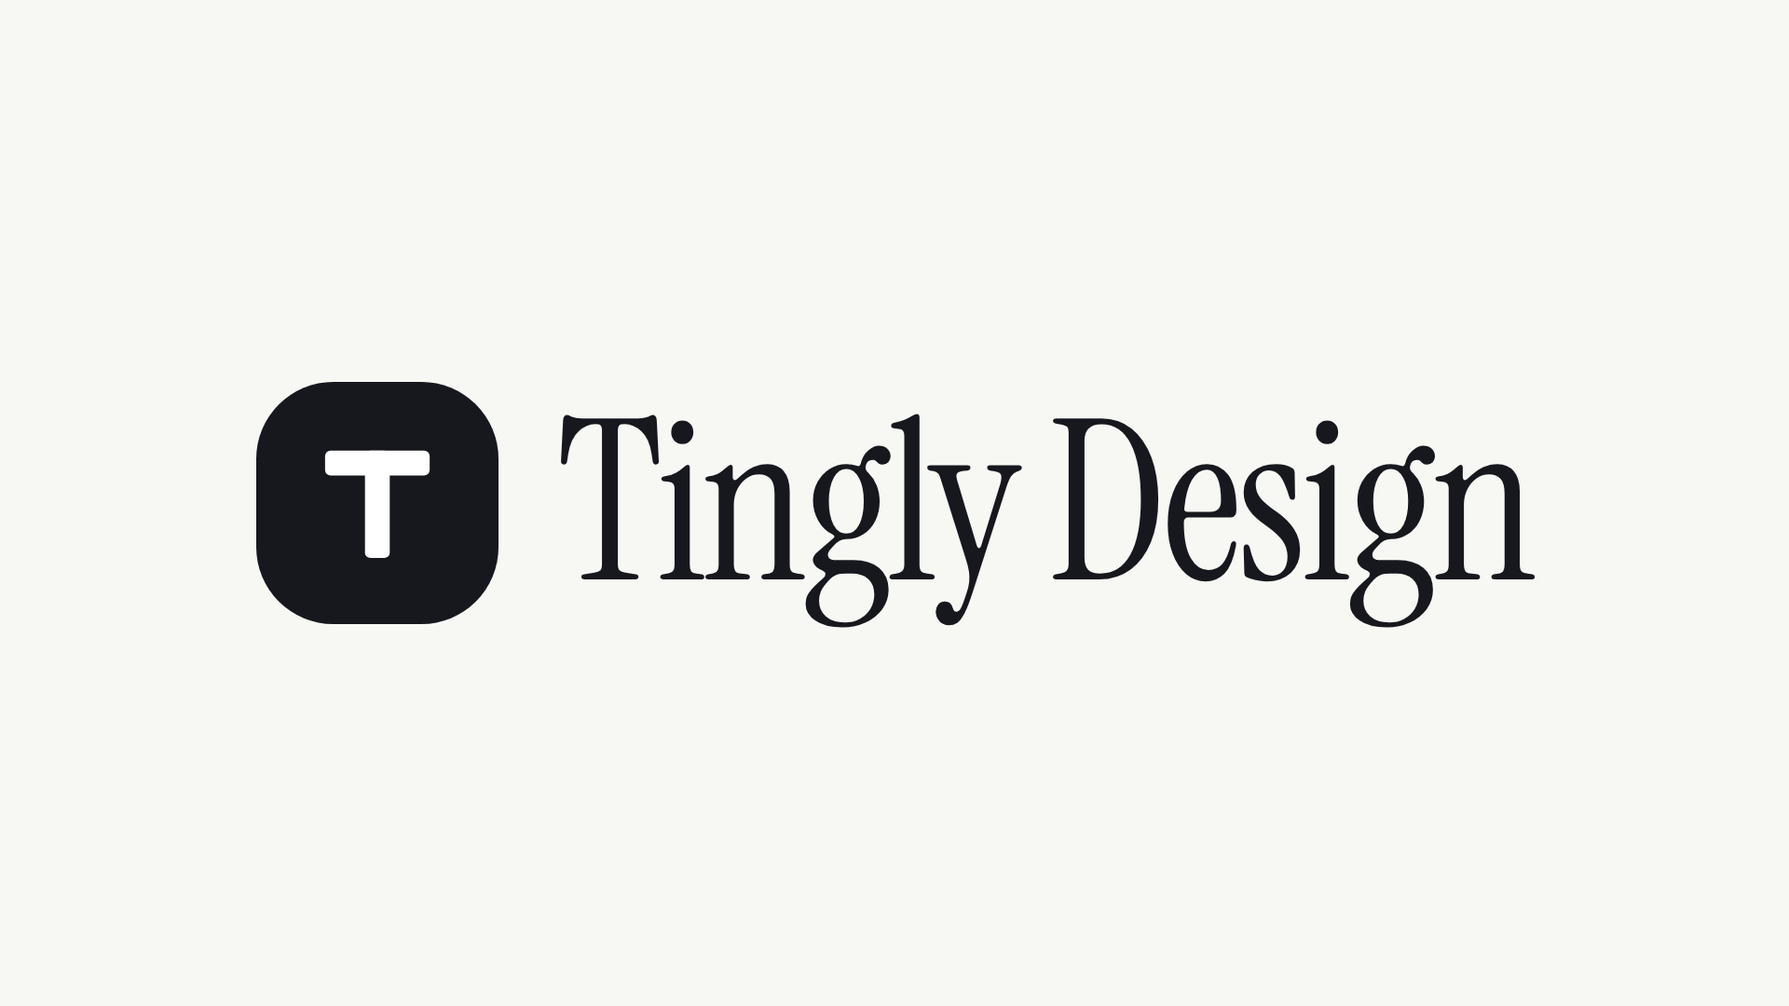
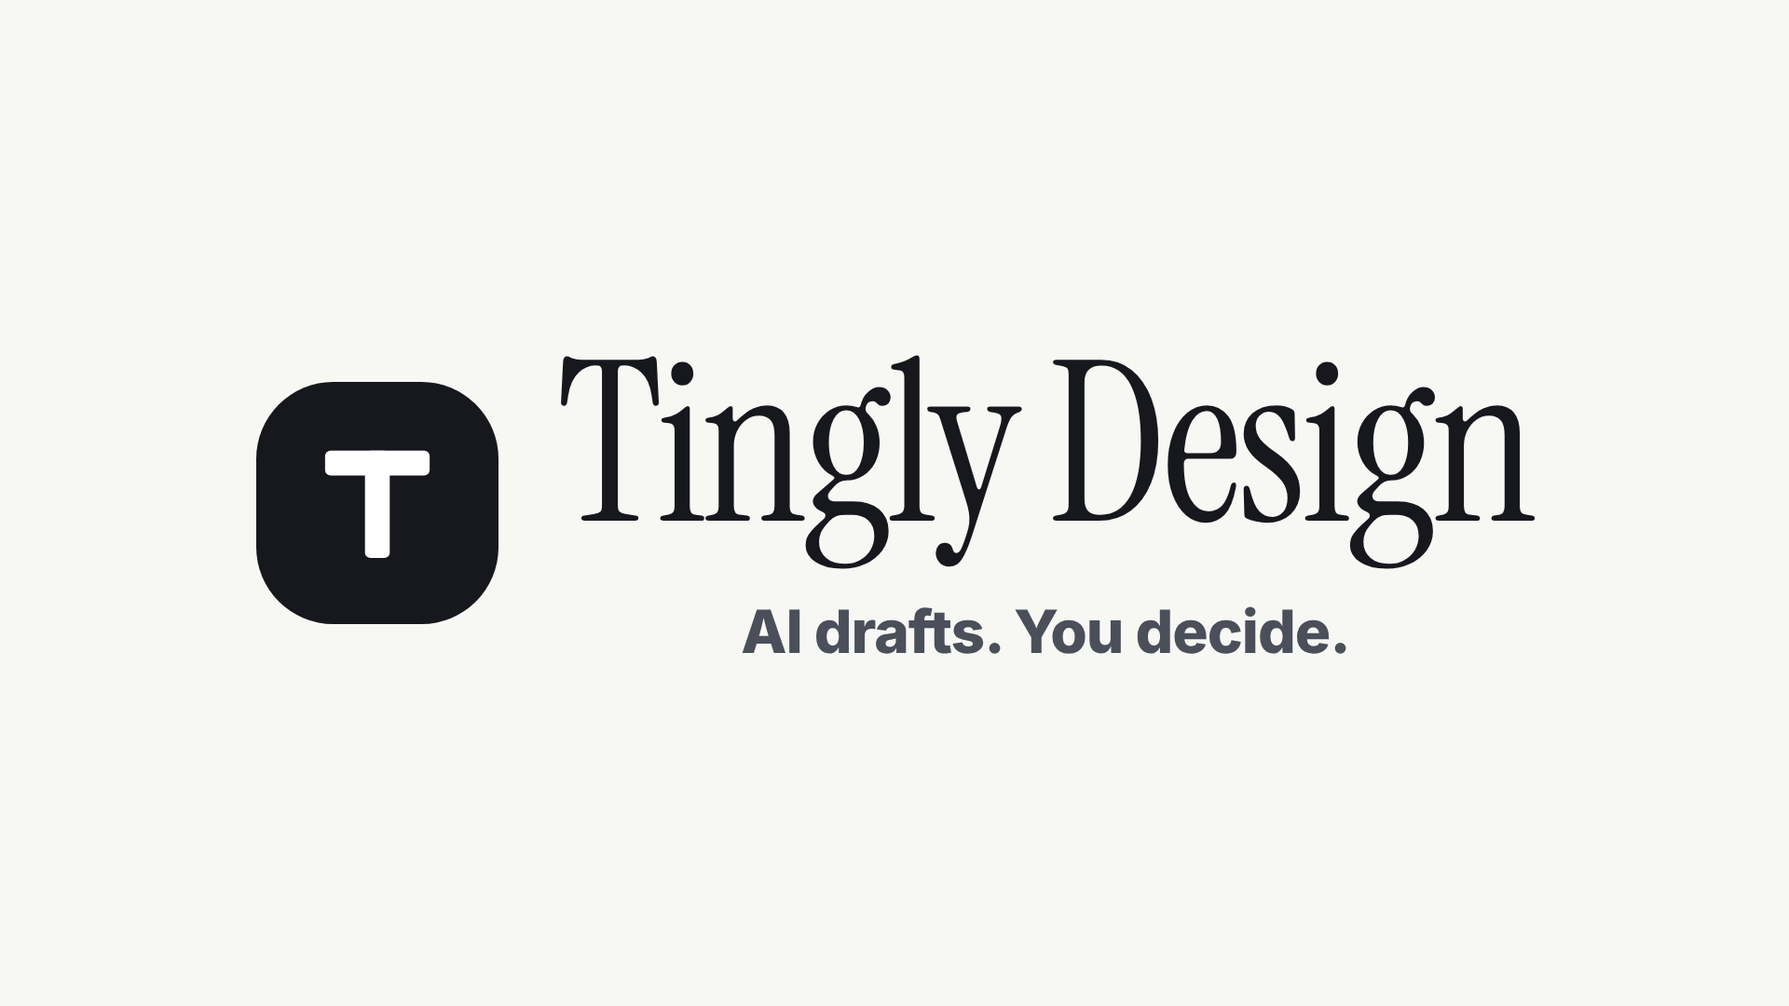
feat(motion): retell the design-motion sample: AI drafts, you decide (#353)
## Summary
The README led with a mechanism ("people and AI edit the same files")
and `projects/design-motion` — the README hero and promo source —
explained how it works instead of showing what you get. This picks the
launch-promo tagline 「AI 起稿，你来定稿 / AI drafts. You decide.」 with the
subtitle 「开源的 AI 设计工作室 / The open-source AI design studio」 and retells
the sample around it, so README, homepage and cover all lead with one
line.

## Key Changes

- **Launch tagline (#124)**: both READMEs and the homepage
kicker/headline lead with "AI drafts. You decide." over "The open-source
AI design studio".
- **Sample story (#126)**: scenes now show one sentence → AI draft → you
finish it (retype the headline) → "Want it darker? Ask." → everything
you can make → slogan; the ask is "Make it darker and add pricing" and
the AI's answer is a dark take (ink background, amber accent) with the
pricing section.
- **Cover assets**: the poster cover, cover and outro scenes carry the
slogan, readable at thumbnail size; `cover.png`, `hero.gif`, `kinds.gif`
re-rendered from the sample with the app's own exporter
(`scripts/readme-assets.sh`).
- **No behavior change**: scene copy, colours and notes only —
`e2e/coverage.json` and `.design/project-kinds.md` needed no changes,
and a copy-only change needs no `.design/` note (CLAUDE.md "Keep these
in sync").

## Screenshots

The re-rendered README assets (also the hero of the README itself):

![Cover: the name and the
[…]

Changed region(s): [[0.3125, 0.3361, 0.875, 0.6722]]

diff --git a/projects/tingly-design-motion/scenes/more.html b/projects/tingly-design-motion/scenes/more.html
@@ -1,7 +1,7 @@
 <section id="more" data-duration="7.5s" style="background:#f7f7f4;color:#16181d;font-family:'Inter', Arial, sans-serif;padding:48px 96px;display:flex;flex-direction:column;gap:24px" data-tall="padding:72px 56px;gap:28px" data-s390x844="padding:36px 20px 20px 20px;gap:14px" data-upright="padding:64px 54px;gap:13.5px">
 <div style="display:flex;flex-direction:column;gap:8px;height:120px" data-tall="height:190px" data-s390x844="height:96px;gap:6px" data-upright="gap:7px;height:170px">
-<h2 data-in="rise 600ms @0.2s" style="font-size:60px;font-weight:900;line-height:1.05;letter-spacing:-2px" data-tall="font-size:62px" data-s390x844="font-size:30px;letter-spacing:-1px" data-upright="font-size:42px;letter-spacing:-1.4px">Or try another style.</h2>
-<p data-in="fade 500ms @0.6s" style="font-size:30px;font-weight:500;color:#4a4f5a" data-tall="font-size:30px" data-s390x844="font-size:15px" data-upright="font-size:21px">Same design, new look. One sentence restyles it in place.</p>
+<h2 data-in="rise 600ms @0.2s" style="font-size:60px;font-weight:900;line-height:1.05;letter-spacing:-2px" data-tall="font-size:62px" data-s390x844="font-size:30px;letter-spacing:-1px" data-upright="font-size:42px;letter-spacing:-1.4px">Want it darker? Ask.</h2>
+<p data-in="fade 500ms @0.6s" style="font-size:30px;font-weight:500;color:#4a4f5a" data-tall="font-size:30px" data-s390x844="font-size:15px" data-upright="font-size:21px">The AI reworks the same design.</p>
 </div>
 <div id="window" style="display:flex;flex-direction:column;flex:1;background:#ffffff;border:2px solid #e5e5e0;border-radius:28px;overflow:hidden" data-s390x844="border-radius:18px;padding:10px;border-radius:12px" data-upright="border:2px solid #e5e5e0;border-radius:20px">
 <div style="display:flex;flex-direction:row;align-items:center;gap:14px;height:60px;padding:0px 24px;border-bottom:2px solid #e5e5e0" data-s390x844="height:38px;padding:0px 14px;gap:8px" data-upright="height:52px;padding:0px 20px;gap:11px;border-bottom:2px solid #e5e5e0">
@@ -56,7 +56,7 @@
 </div>
 </div>
 <div style="position:absolute;left:50%;bottom:40px;width:860px;transform:translateX(-50%);display:flex;flex-direction:row;align-items:center;gap:14px;padding:12px 12px 12px 26px;background:#ffffff;border:2px solid #2563eb;border-radius:20px" data-in="rise 400ms @0.3s" data-tall="width:900px;bottom:140px" data-s390x844="width:340px;bottom:14px;padding:6px 6px 6px 14px;border-radius:14px" data-upright="bottom:32px;width:700px;padding:10px 10px 10px 22px;border:2px solid #2563eb;border-radius:16px">
-<p style="flex:1;font-size:26px;font-weight:600;color:#16181d" data-s390x844="font-size:12px" data-upright="font-size:19px"><span data-in="type 1.6s @0.8s">Try a dark, editorial style</span></p>
+<p style="flex:1;font-size:26px;font-weight:600;color:#16181d" data-s390x844="font-size:12px" data-upright="font-size:19px"><span data-in="type 1.6s @0.8s">Make it darker and more editorial</span></p>
 <p id="send" data-keys="scale: 1@2.6s 0.85@2.70s 1@2.85s" style="width:52px;height:52px;background:#2563eb;border-radius:14px;color:#ffffff;font-size:28px;font-weight:900;text-align:center;line-height:52px" data-s390x844="width:30px;height:30px;font-size:16px;line-height:30px;border-radius:9px" data-upright="width:44px;height:44px;border-radius:11px;font-size:24px;line-height:44px">↑</p>
 </div></div>
 </div>

diff --git a/projects/tingly-design-motion/scenes/edit.html b/projects/tingly-design-motion/scenes/edit.html
@@ -1,7 +1,7 @@
 <section id="edit" data-duration="6.8s" style="background:#f7f7f4;color:#16181d;font-family:'Inter', Arial, sans-serif;padding:48px 96px;display:flex;flex-direction:column;gap:24px" data-tall="padding:72px 56px;gap:28px" data-s390x844="padding:36px 20px 20px 20px;gap:14px" data-upright="padding:64px 54px;gap:13.5px">
 <div style="display:flex;flex-direction:column;gap:8px;height:120px" data-tall="height:190px" data-s390x844="height:96px;gap:6px" data-upright="gap:7px;height:170px">
-<h2 data-in="rise 600ms @0.2s" style="font-size:60px;font-weight:900;line-height:1.05;letter-spacing:-2px" data-tall="font-size:62px" data-s390x844="font-size:30px;letter-spacing:-1px" data-upright="font-size:42px;letter-spacing:-1.4px">Click any text. Type.</h2>
-<p data-in="fade 500ms @0.6s" style="font-size:30px;font-weight:500;color:#4a4f5a" data-tall="font-size:30px" data-s390x844="font-size:15px" data-upright="font-size:21px">Every part of the design is yours to change by hand.</p>
+<h2 data-in="rise 600ms @0.2s" style="font-size:60px;font-weight:900;line-height:1.05;letter-spacing:-2px" data-tall="font-size:62px" data-s390x844="font-size:30px;letter-spacing:-1px" data-upright="font-size:42px;letter-spacing:-1.4px">Then you finish it.</h2>
+<p data-in="fade 500ms @0.6s" style="font-size:30px;font-weight:500;color:#4a4f5a" data-tall="font-size:30px" data-s390x844="font-size:15px" data-upright="font-size:21px">Retype any line, right on the page.</p>
 </div>
 <div id="window" style="display:flex;flex-direction:column;flex:1;background:#ffffff;border:2px solid #e5e5e0;border-radius:28px;overflow:hidden" data-s390x844="border-radius:18px;padding:10px;border-radius:12px" data-upright="border:2px solid #e5e5e0;border-radius:20px">
 <div style="display:flex;flex-direction:row;align-items:center;gap:14px;height:60px;padding:0px 24px;border-bottom:2px solid #e5e5e0" data-s390x844="height:38px;padding:0px 14px;gap:8px" data-upright="height:52px;padding:0px 20px;gap:11px;border-bottom:2px solid #e5e5e0">
@@ -39,4 +39,4 @@
 </div>
 <svg width="48" height="48" viewBox="0 0 24 24" style="position:absolute;left:1702px data-only="wide tall";top:830px;width:48px;height:48px" data-in="fade 300ms @0.2s" data-out="fade 300ms @2.4s" data-keys="x: 0@0s 0@0.5s -938@1.4s ease-in-out; y: 0@0s 0@0.5s -347@1.4s ease-in-out" data-tall="left:902px;top:1646px" data-keys-tall="x: 0@0s 0@0.5s -368@1.4s ease-in-out; y: 0@0s 0@0.5s -687@1.4s ease-in-out" data-only="wide tall"><path d="M3 2l7 19 2.6-7.4L20 11z" fill="#16181d" stroke="#ffffff" stroke-width="1.6" stroke-linejoin="round"/></svg>
 <div data-in="pop 250ms @1.5s" data-out="fade 400ms @1.85s" data-only="wide tall" style="position:absolute;left:730px;top:447px;width:80px;height:80px;border:6px solid #2563eb;border-radius:999px" data-tall="left:500px;top:923px" data-upright="left:410.63px;top:596px;width:45px;height:106.67px;border:3.38px solid #2563eb;border-radius:561.94px"></div>
-<aside>dive into text edit</aside></section>
+<aside>you finish the draft: retype the headline by hand</aside></section>

diff --git a/projects/tingly-design-motion/scenes/cover.html b/projects/tingly-design-motion/scenes/cover.html
@@ -5,7 +5,7 @@
 <div data-in="pop 600ms @0.61s" data-keys="y: 0@0s -18@4.6s ease-in-out" style="position:absolute;left:1430px;top:680px;display:flex;flex-direction:column;gap:14px;width:380px;height:250px;padding:24px;background:#ffffff;border:2px solid #e5e5e0;border-radius:22px;transform:rotate(-4deg)" data-tall="left:640px;top:1400px" data-only="wide tall" data-upright="left:700px;top:980px;width:300px;height:200px;padding:20px;border:2px solid #e5e5e0;border-radius:18px"><p style="height:12px;width:180px;background:#16181d;border-radius:6px" data-upright="height:12px;width:150px;border-radius:5px"></p><p style="height:12px;width:280px;background:#d6d8dd;border-radius:6px" data-upright="height:12px;width:230px;border-radius:5px"></p><p style="height:12px;width:250px;background:#d6d8dd;border-radius:6px" data-upright="height:12px;width:210px;border-radius:5px"></p><p style="height:12px;width:290px;background:#d6d8dd;border-radius:6px" data-upright="height:12px;width:240px;border-radius:5px"></p><p style="height:12px;width:160px;background:#d6d8dd;border-radius:6px" data-upright="height:12px;width:130px;border-radius:5px"></p><p style="height:12px;width:240px;background:#d6d8dd;border-radius:6px" data-upright="height:12px;width:200px;border-radius:5px"></p></div>
 <svg data-in="drop 500ms @0.6s" aria-label="Tingly mark" width="132" height="132" viewBox="0 0 88 88" style="width:132px;height:132px" data-s390x844="width:84px;height:84px" data-upright="width:100px;height:100px"><rect width="88" height="88" rx="28" fill="#16181d"/><rect x="25" y="25" width="38" height="9" rx="2" fill="#ffffff"/><rect x="39.5" y="25" width="9" height="39" rx="2" fill="#ffffff"/></svg>
 <h1 data-in="wipe 700ms @0.9s ease-in-out" style="font-family:'Instrument Serif', Georgia, serif;font-size:200px;font-weight:400;line-height:1;letter-spacing:-4px;text-align:center" data-tall="font-size:150px" data-s390x844="font-size:60px;letter-spacing:-2px" data-upright="font-size:120px;letter-spacing:-2.5px">Tingly Design</h1>
-<p data-in="rise 500ms @1.5s" style="font-size:46px;font-weight:700;text-align:center;color:#4a4f5a" data-tall="font-size:40px;width:900px" data-s390x844="font-size:18px;width:320px" data-upright="font-size:30px;width:760px">Design with AI. Change anything by hand.</p>
+<p data-in="rise 500ms @1.5s" style="font-size:54px;font-weight:700;text-align:center;color:#4a4f5a" data-tall="font-size:40px;width:900px" data-s390x844="font-size:18px;width:320px" data-upright="font-size:30px;width:760px">AI drafts. You decide.</p>
 <p data-in="pop 400ms @1.9s" style="padding:12px 26px;background:#e9effd;color:#2563eb;font-size:28px;font-weight:800;letter-spacing:4px;border-radius:999px" data-s390x844="padding:8px 18px;font-size:13px;letter-spacing:3px" data-upright="padding:12px 24px;font-size:20px;letter-spacing:3px;border-radius:999px">START DESIGNING</p>
-<aside>Cover: the product name, its promise, and four things it makes.</aside>
+<aside>Cover: the name, the slogan, and four things it makes.</aside>
 </section>

diff --git a/projects/tingly-design-motion/scenes/all.html b/projects/tingly-design-motion/scenes/all.html
@@ -1,5 +1,5 @@
 <section id="all" data-duration="4s" data-transition="fade 500ms" style="background:#f7f7f4;color:#16181d;font-family:'Inter', Arial, sans-serif;padding:128px;display:flex;flex-direction:column;justify-content:center;gap:48px" data-tall="padding:96px 56px" data-s390x844="padding:48px 24px;gap:28px" data-upright="padding:110px 80px;gap:48px">
-<h2 data-in="rise 600ms @0.1s" style="font-size:96px;font-weight:900;line-height:1.05;letter-spacing:-3px" data-tall="font-size:88px" data-s390x844="font-size:38px;letter-spacing:-1px" data-upright="font-size:78px;letter-spacing:-2.5px;line-height:1.05">Six kinds of project.<br>One workspace.</h2>
+<h2 data-in="rise 600ms @0.1s" style="font-size:96px;font-weight:900;line-height:1.05;letter-spacing:-3px" data-tall="font-size:88px" data-s390x844="font-size:38px;letter-spacing:-1px" data-upright="font-size:78px;letter-spacing:-2.5px;line-height:1.05">Everything you'll make.<br>One place.</h2>
 <div style="display:flex;flex-direction:row;flex-wrap:wrap;gap:20px;width:1500px" data-tall="width:968px" data-s390x844="width:342px;gap:10px" data-upright="gap:16px;width:920px">
 <p data-in="pop 400ms @0.40s" style="width:430px;box-sizing:border-box;display:flex;align-items:center;justify-content:center;text-align:center;padding:18px 34px;background:#e9effd;border:2px solid #e5e5e0;border-radius:999px;font-size:44px;font-weight:800" data-s390x844="width:166px;padding:12px 8px;font-size:17px" data-upright="width:288px;padding:20px 30px;border:2px solid #e5e5e0;border-radius:999px;font-size:34px">Canvas</p>
 <p data-in="pop 400ms @0.58s" style="width:430px;box-sizing:border-box;display:flex;align-items:center;justify-content:center;text-align:center;padding:18px 34px;background:#ffffff;border:2px solid #e5e5e0;border-radius:999px;font-size:44px;font-weight:800" data-s390x844="width:166px;padding:12px 8px;font-size:17px" data-upright="width:288px;padding:20px 30px;border:2px solid #e5e5e0;border-radius:999px;font-size:34px">Slides</p>
@@ -8,5 +8,5 @@
 <p data-in="pop 400ms @1.12s" style="width:430px;box-sizing:border-box;display:flex;align-items:center;justify-content:center;text-align:center;padding:18px 34px;background:#e9effd;border:2px solid #e5e5e0;border-radius:999px;font-size:44px;font-weight:800" data-s390x844="width:166px;padding:12px 8px;font-size:17px" data-upright="width:288px;padding:20px 30px;border:2px solid #e5e5e0;border-radius:999px;font-size:34px">Docs</p>
 <p data-in="pop 400ms @1.30s" style="width:430px;box-sizing:border-box;display:flex;align-items:center;justify-content:center;text-align:center;padding:18px 34px;background:#ffffff;border:2px solid #e5e5e0;border-radius:999px;font-size:44px;font-weight:800" data-s390x844="width:166px;padding:12px 8px;font-size:17px" data-upright="width:288px;padding:20px 30px;border:2px solid #e5e5e0;border-radius:999px;font-size:34px">Motion</p>
 </div>
-<aside>Recap of the six kinds.</aside>
+<aside>the waterfall of everything else you can make</aside>
 </section>

diff --git a/site/index.html b/site/index.html
@@ -4,9 +4,9 @@
 <meta charset="utf-8">
 <meta name="viewport" content="width=device-width, initial-scale=1">
 <title>Tingly Design</title>
-<meta name="description" content="Open-source design with two-way editing: people and AI co-design in the editor or in plain files, and each side sees the other's changes at once.">
+<meta name="description" content="AI drafts. You decide. The open-source AI design studio: people and AI edit the same files, and each side sees the other's changes at once.">
 <meta property="og:title" content="Tingly Design">
-<meta property="og:description" content="Open-source design with two-way editing: people and AI co-design in the editor or in plain files.">
+<meta property="og:description" content="AI drafts. You decide. The open-source AI design studio where people and AI edit the same files.">
 <meta property="og:image" content="media/readme/cover.png">
 <style>
   :root { --bg:#fbfaf7; --fg:#1d1b18; --muted:#6b665e; --line:#e4e0d8; --card:#fff; --accent:#0f6fff; }
@@ -73,10 +73,10 @@
     </span>
   </nav>
 
-  <p class="kicker" lang="en">Open-source design tool</p>
-  <p class="kicker" lang="zh">开源设计工具</p>
-  <h1 lang="en">Co-design with AI.<br>Edit it both ways.</h1>
-  <h1 lang="zh">人机协同设计，<br>双向编辑。</h1>
+  <p class="kicker" lang="en">The open-source AI design studio</p>
+  <p class="kicker" lang="zh">开源的 AI 设计工作室</p>
+  <h1 lang="en">AI drafts.<br>You decide.</h1>
+  <h1 lang="zh">AI 起稿，<br>你来定稿。</h1>
   <p class="lead" lang="en">Drag on the canvas, or let a model and Claude Code change the file: whichever side you edit, the other updates at once. Canvases, slides, design systems, dashboards, docs and motion are all plain files, and every edit writes back only the characters that changed.</p>
   <p class="lead" lang="zh">在画布上点选拖拽，或者让 AI 和 Claude Code 直接改文件：改哪一边，另一边立刻同步。画布、幻灯片、设计系统、仪表盘、文档、动效，都是普通文件，每次编辑只写回真正变了的那几个字符。</p>
   <div class="cta">

diff --git a/projects/tingly-design-motion/scenes/outro.html b/projects/tingly-design-motion/scenes/outro.html
@@ -1,7 +1,7 @@
 <section id="outro" data-duration="5s" data-keys="scale: 1@0 1.04@5s" style="background:#2563eb;color:#ffffff;font-family:'Inter', Arial, sans-serif;padding:128px;display:flex;flex-direction:column;justify-content:center;align-items:center;gap:36px" data-tall="padding:96px" data-s390x844="padding:40px 24px;gap:22px" data-upright="padding:96px 72px;gap:34px">
 <svg data-in="spin 600ms @0.2s" aria-label="Tingly mark" width="150" height="150" viewBox="0 0 88 88" style="width:150px;height:150px" data-s390x844="width:90px;height:90px" data-upright="width:130px;height:130px"><rect width="88" height="88" rx="28" fill="#16181d"/><rect x="25" y="25" width="38" height="9" rx="2" fill="#ffffff"/><rect x="39.5" y="25" width="9" height="39" rx="2" fill="#ffffff"/></svg>
 <h1 data-in="wipe 800ms @0.7s ease-in-out" style="font-family:'Instrument Serif', Georgia, serif;font-size:230px;font-weight:400;line-height:1;letter-spacing:-4px;text-align:center" data-tall="font-size:156px" data-s390x844="font-size:64px;letter-spacing:-2px" data-upright="font-size:140px;letter-spacing:-3px">Tingly Design</h1>
-<p data-in="rise 600ms @1.6s" style="font-size:48px;font-weight:700;text-align:center" data-tall="font-size:40px;width:900px" data-s390x844="font-size:18px;width:320px" data-upright="font-size:34px;width:900px">Design with AI. Change anything by hand.</p>
+<p data-in="rise 600ms @1.6s" style="font-size:56px;font-weight:700;text-align:center" data-tall="font-size:40px;width:900px" data-s390x844="font-size:18px;width:320px" data-upright="font-size:34px;width:900px">AI drafts. You decide.</p>
 <p data-in="rise 600ms @2.2s" style="padding:16px 32px;background:#ffffff;color:#2563eb;font-size:34px;font-weight:800;border-radius:999px" data-s390x844="padding:10px 22px;font-size:16px" data-upright="padding:16px 30px;font-size:26px;border-radius:999px">START DESIGNING</p>
-<aside>Close: name, promise, where to get it.</aside>
+<aside>Close: the name, the slogan, where to get it.</aside>
 </section>

diff --git a/projects/tingly-design-motion/scenes/idea.html b/projects/tingly-design-motion/scenes/idea.html
@@ -1,7 +1,7 @@
 <section id="idea" data-duration="7s" style="background:#f7f7f4;color:#16181d;font-family:'Inter', Arial, sans-serif;padding:48px 96px;display:flex;flex-direction:column;gap:24px" data-tall="padding:72px 56px;gap:28px" data-s390x844="padding:36px 20px 20px 20px;gap:14px" data-upright="padding:64px 54px;gap:13.5px">
 <div style="display:flex;flex-direction:column;gap:8px;height:120px" data-tall="height:190px" data-s390x844="height:96px;gap:6px" data-upright="gap:7px;height:170px">
-<h2 data-in="rise 600ms @0.2s" style="font-size:60px;font-weight:900;line-height:1.05;letter-spacing:-2px" data-tall="font-size:62px" data-s390x844="font-size:30px;letter-spacing:-1px" data-upright="font-size:42px;letter-spacing:-1.4px">Start with an idea.</h2>
-<p data-in="fade 500ms @0.6s" style="font-size:30px;font-weight:500;color:#4a4f5a" data-tall="font-size:30px" data-s390x844="font-size:15px" data-upright="font-size:21px">Describe it. The AI designs it on the canvas.</p>
+<h2 data-in="rise 600ms @0.2s" style="font-size:60px;font-weight:900;line-height:1.05;letter-spacing:-2px" data-tall="font-size:62px" data-s390x844="font-size:30px;letter-spacing:-1px" data-upright="font-size:42px;letter-spacing:-1.4px">Start with one sentence.</h2>
+<p data-in="fade 500ms @0.6s" style="font-size:30px;font-weight:500;color:#4a4f5a" data-tall="font-size:30px" data-s390x844="font-size:15px" data-upright="font-size:21px">The AI drafts the whole page.</p>
 </div>
 <div id="window" style="display:flex;flex-direction:column;flex:1;background:#ffffff;border:2px solid #e5e5e0;border-radius:28px;overflow:hidden" data-s390x844="border-radius:18px;padding:10px;border-radius:12px" data-upright="border:2px solid #e5e5e0;border-radius:20px">
 <div style="display:flex;flex-direction:row;align-items:center;gap:14px;height:60px;padding:0px 24px;border-bottom:2px solid #e5e5e0" data-s390x844="height:38px;padding:0px 14px;gap:8px" data-upright="height:52px;padding:0px 20px;gap:11px;border-bottom:2px solid #e5e5e0">

diff --git a/projects/tingly-design-motion/scenes/poster.html b/projects/tingly-design-motion/scenes/poster.html
@@ -1,5 +1,8 @@
 <section id="poster" data-duration="1s" style="background:#f7f7f4;color:#16181d;font-family:'Inter', Arial, sans-serif;padding:96px;display:flex;flex-direction:row;align-items:center;justify-content:center;gap:64px" data-tall="flex-direction:column;gap:56px" data-s390x844="flex-direction:column;gap:28px;padding:40px 24px" data-upright="padding:72px 54px;gap:48px">
 <svg aria-label="Tingly mark" width="260" height="260" viewBox="0 0 88 88" style="width:260px;height:260px" data-tall="width:320px;height:320px" data-s390x844="width:120px;height:120px" data-upright="width:180px;height:180px"><rect width="88" height="88" rx="28" fill="#16181d"/><rect x="25" y="25" width="38" height="9" rx="2" fill="#ffffff"/><rect x="39.5" y="25" width="9" height="39" rx="2" fill="#ffffff"/></svg>
+<div style="display:flex;flex-direction:column;align-items:center;gap:36px">
 <h1 style="font-family:'Instrument Serif', Georgia, serif;font-size:240px;font-weight:400;line-height:1;letter-spacing:-5px;text-align:center" data-tall="font-size:180px;line-height:0.95" data-s390x844="font-size:68px;line-height:0.95;letter-spacing:-2px" data-upright="font-size:150px;letter-spacing:-3px;line-height:0.95">Tingly Design</h1>
-<aside>Cover image: the mark and the name, readable at thumbnail size.</aside>
+<p style="font-size:64px;font-weight:700;letter-spacing:-1px;text-align:center;color:#4a4f5a" data-tall="font-size:56px" data-s390x844="font-size:26px" data-upright="font-size:46px">AI drafts. You decide.</p>
+</div>
+<aside>Cover image: the mark, the name and the slogan, readable at thumbnail size.</aside>
 </section>

diff --git a/README.md b/README.md
@@ -4,7 +4,9 @@
   <img src="docs/images/readme/cover.png" alt="Tingly Design" width="640">
 </p>
 
-<h3 align="center">An open-source design tool where people and AI edit the same files.</h3>
+<h3 align="center">AI drafts. You decide.</h3>
+
+<p align="center"><sub>The open-source AI design studio.</sub></p>
 
 <p align="center">
   <a href="#quick-start">Quick start</a> ·

diff --git a/README.zh-CN.md b/README.zh-CN.md
@@ -4,7 +4,9 @@
   <img src="docs/images/readme/cover.png" alt="Tingly Design" width="640">
 </p>
 
-<h3 align="center">人和 AI 改同一份文件的开源设计工具。</h3>
+<h3 align="center">AI 起稿，你来定稿。</h3>
+
+<p align="center"><sub>开源的 AI 设计工作室。</sub></p>
 
 <p align="center">
   <a href="#快速开始">快速开始</a> ·
